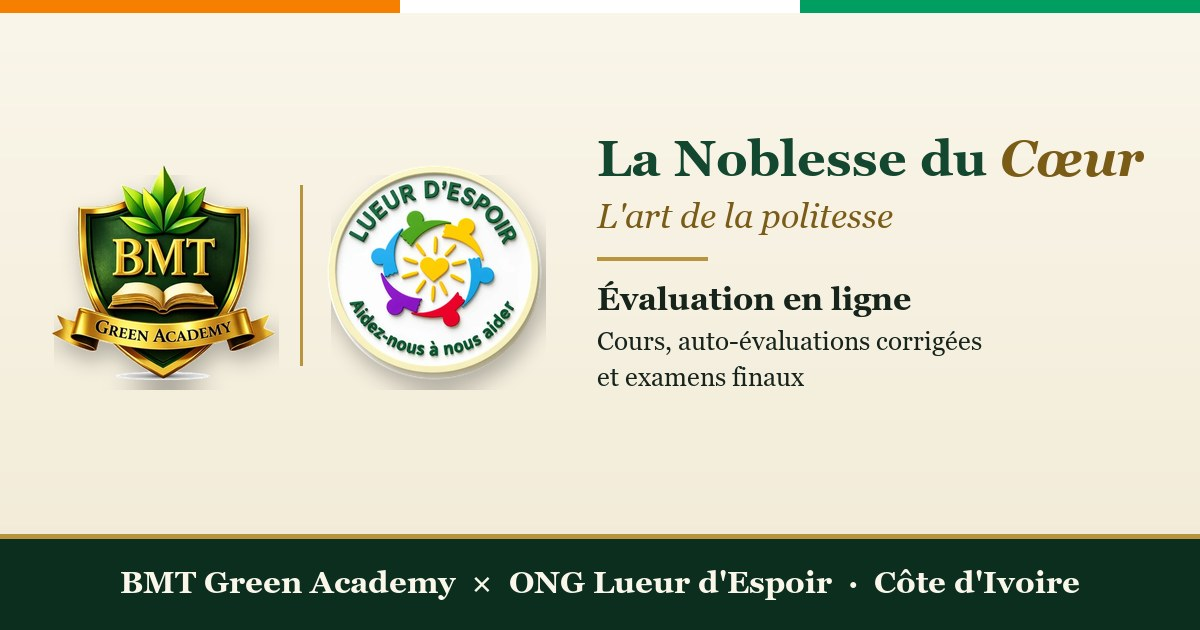
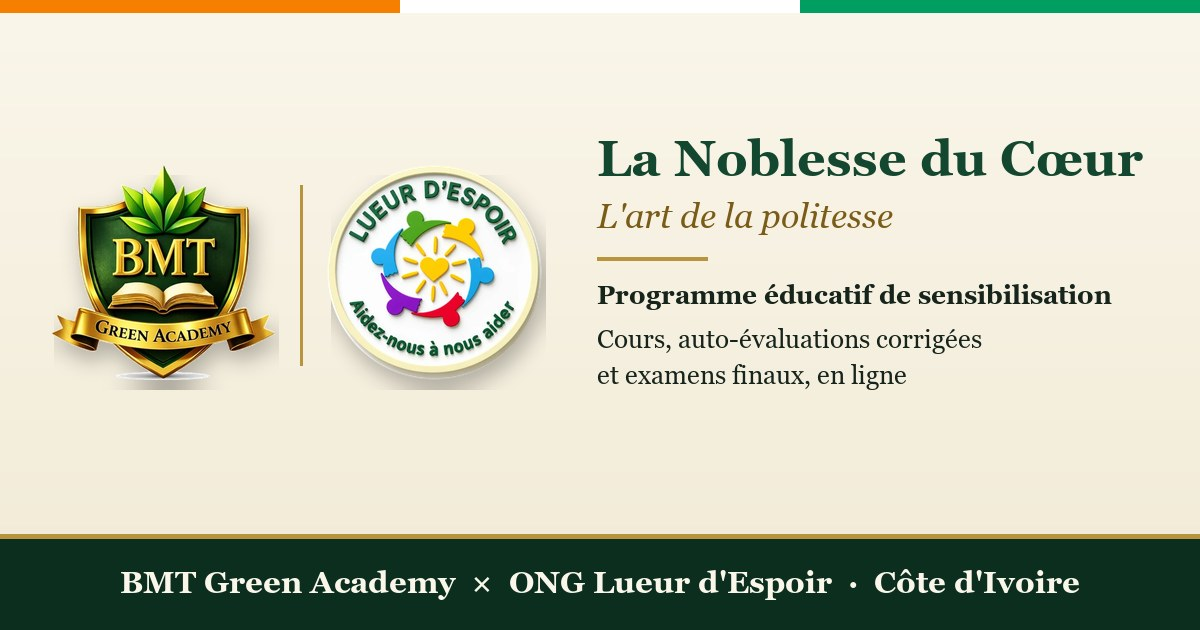
Intitulé « Programme éducatif de sensibilisation » et nom du programme dans une seule couleur
- Accueil, titre de page et aperçu du lien : « La Noblesse du Cœur — Programme éducatif de sensibilisation » ;
  résumé : « L'art de la politesse : cours, auto-évaluations corrigées et examens finaux, en ligne ».
- « La Noblesse du Cœur » s'écrit dans une seule couleur (en-tête, accueil, pied de page, image d'aperçu) ;
  l'or est réservé à « L'art de la politesse ».
- Image d'aperçu régénérée (outils/apercus.py) ; balises régénérées (outils/seo.js).

Changed region(s): [[0.4933, 0.4524, 0.925, 0.6333], [0.8325, 0.2111, 0.9558, 0.3016]]

diff --git a/app.js b/app.js
@@ -41,7 +41,7 @@ function header(mode) {
     return `${saut}<header class="ident"><div class="wrap"><div class="logo"><span class="nom"><b>ONG <em>Lueur</em> d'Espoir</b><span>Aidez-nous à nous aider</span></span></div>
     <img src="img/logo_lueur-160.webp" width="64" height="64" alt="ONG Lueur d'Espoir"></div></header><div class="tricolore"></div>`;
   return `${saut}<header class="ident"><div class="wrap">
-    <a class="logo" href="index.html" aria-label="La Noblesse du Cœur, accueil"><span class="paire-logos"><img src="img/logo_bmt-160.webp" width="65" height="62" alt=""><i class="trait-or"></i><img src="img/logo_lueur-160.webp" width="62" height="62" alt=""></span><span class="nom"><b>La Noblesse du <em>Cœur</em></b><span>BMT Green Academy et ONG Lueur d'Espoir</span></span></a>
+    <a class="logo" href="index.html" aria-label="La Noblesse du Cœur, accueil"><span class="paire-logos"><img src="img/logo_bmt-160.webp" width="65" height="62" alt=""><i class="trait-or"></i><img src="img/logo_lueur-160.webp" width="62" height="62" alt=""></span><span class="nom"><b>La Noblesse du Cœur</b><span>BMT Green Academy et ONG Lueur d'Espoir</span></span></a>
     <nav class="nav" aria-label="Navigation principale">${NAVX.map(lienNav).join("")}<a class="btn" href="${CTA_NAV[0]}">${CTA_NAV[1]}</a></nav>
     <button class="burger" type="button" aria-label="Ouvrir le menu" aria-expanded="false" aria-controls="tiroir"><span></span><span></span></button></div></header>
   <div class="voile"></div>
@@ -62,7 +62,7 @@ const PARTENAIRES = `<section class="bande partenaires" aria-labelledby="deux-or
   </div>
   <p class="devise">Respect, dignité, leadership, paix.</p></div></section>`;
 const FOOT = `<footer><div class="wrap">
-  <div class="a-propos-pied"><div class="ronds"><img src="img/logo_bmt-160.webp" width="167" height="160" alt="BMT Green Academy" loading="lazy"><img src="img/logo_lueur-160.webp" width="160" height="160" alt="ONG Lueur d'Espoir" loading="lazy"></div><b>La Noblesse du <em>Cœur</em></b>Respect, dignité, leadership, paix.<br>Programme d'éducation citoyenne, Côte d'Ivoire.</div>
+  <div class="a-propos-pied"><div class="ronds"><img src="img/logo_bmt-160.webp" width="167" height="160" alt="BMT Green Academy" loading="lazy"><img src="img/logo_lueur-160.webp" width="160" height="160" alt="ONG Lueur d'Espoir" loading="lazy"></div><b>La Noblesse du Cœur</b>Respect, dignité, leadership, paix.<br>Programme d'éducation citoyenne, Côte d'Ivoire.</div>
   <div><h4>Élèves et participants</h4><a href="commencer.html">Commencer : s'inscrire</a><a href="espace.html">Mon espace</a>${LIENS.academie ? `<a href="${LIENS.academie}" target="_blank" rel="noopener">Pôle formation BMT Green Academy</a>` : ""}${LIENS.ong ? `<a href="${LIENS.ong}"${cibleLien(LIENS.ong)}>ONG Lueur d'Espoir</a>` : ""}</div>
   <div><h4>L'équipe</h4><a href="equipe.html">Parcours du programme</a><a href="equipe.html#pdf">Fiches à imprimer</a><a href="liens.html">Tous les liens</a><a href="dashboard.html">Tableau de bord</a></div>
   <p class="partenaire">En partenariat avec l'Association des Arts-Thérapeutes, Coachs et Praticiens Holistiques de Côte d'Ivoire.</p></div></footer>`;
@@ -497,12 +497,12 @@ function brancherInstaller() { document.querySelectorAll(".installer").forEach(b
 
 /* ---------------- accueil public ---------------- */
 function renderAccueil() {
-  document.title = "La Noblesse du Cœur — Évaluation en ligne";
+  document.title = "La Noblesse du Cœur — Programme éducatif de sensibilisation";
   const p = profil(), nom = prenomDe(p);
   app().innerHTML = header() + BANDEAU("basilique", `
-    <h1>La Noblesse du <em>Cœur</em></h1>
+    <h1>La Noblesse du Cœur</h1>
     <p class="sous-titre" style="--k:1">L'art de la politesse</p>
-    <p class="lead" style="--k:2">${p ? `Content de te revoir, ${esc(nom)}. Retrouve ton parcours, tes auto-évaluations, tes examens et tes résultats.` : "<strong>Évaluation en ligne</strong> : inscris-toi, suis les cours de l'Axe 1 et de l'Axe 2 avec leurs auto-évaluations corrigées, puis passe tes examens finaux. Tout se fait sur téléphone, à ton rythme."}</p>
+    <p class="lead" style="--k:2">${p ? `Content de te revoir, ${esc(nom)}. Retrouve ton parcours, tes auto-évaluations, tes examens et tes résultats.` : "<strong>Programme éducatif de sensibilisation</strong> : cours, auto-évaluations corrigées et examens finaux, en ligne. Inscris-toi, suis l'Axe 1 et l'Axe 2 module par module, puis passe tes examens. Tout se fait sur téléphone, à ton rythme."}</p>
     <div class="cta" style="--k:2">${p ? '<a class="btn or" href="espace.html">Entrer dans mon espace</a>' : '<a class="btn or" href="commencer.html">Commencer</a>'}<a class="btn clair" href="#parcours">Comment ça marche</a></div>`) + `
   <main id="contenu" tabindex="-1">${DEMO() ? `<div class="wrap">${DEMO()}</div>` : ""}
     <section class="bande" id="commencer"><div class="wrap"><div class="etape-tete"><div><h2>${p ? "Ton <em>espace</em>" : "Qui <em>es-tu</em> ?"}</h2><p>${p ? "Tu es déjà inscrit(e) sur cet appareil." : "Choisis ton profil : le site te montrera uniquement ce qui te concerne."}</p></div></div>

diff --git a/index.html b/index.html
@@ -1,14 +1,14 @@
 <!doctype html><html lang="fr"><head><meta charset="utf-8"><meta name="viewport" content="width=device-width,initial-scale=1">
 <!-- seo:debut -->
-<title>La Noblesse du Cœur — Évaluation en ligne</title>
-<meta name="description" content="Programme éducatif en Côte d'Ivoire : cours, auto-évaluations corrigées et examens en ligne. Par BMT Green Academy et l'ONG Lueur d'Espoir.">
+<title>La Noblesse du Cœur — Programme éducatif de sensibilisation</title>
+<meta name="description" content="L'art de la politesse : cours, auto-évaluations corrigées et examens finaux, en ligne. Par BMT Green Academy et l'ONG Lueur d'Espoir.">
 <meta name="robots" content="index,follow,max-image-preview:large">
 <link rel="canonical" href="https://xtruck.github.io/noblesse-du-coeur/">
 <meta property="og:type" content="website"><meta property="og:site_name" content="La Noblesse du Cœur"><meta property="og:locale" content="fr_FR">
-<meta property="og:title" content="La Noblesse du Cœur — Évaluation en ligne"><meta property="og:description" content="Programme éducatif en Côte d'Ivoire : cours, auto-évaluations corrigées et examens en ligne. Par BMT Green Academy et l'ONG Lueur d'Espoir."><meta property="og:url" content="https://xtruck.github.io/noblesse-du-coeur/">
+<meta property="og:title" content="La Noblesse du Cœur — Programme éducatif de sensibilisation"><meta property="og:description" content="L'art de la politesse : cours, auto-évaluations corrigées et examens finaux, en ligne. Par BMT Green Academy et l'ONG Lueur d'Espoir."><meta property="og:url" content="https://xtruck.github.io/noblesse-du-coeur/">
 <meta property="og:image" content="https://xtruck.github.io/noblesse-du-coeur/img/apercu-accueil.jpg"><meta property="og:image:type" content="image/jpeg"><meta property="og:image:width" content="1200"><meta property="og:image:height" content="630"><meta property="og:image:alt" content="La Noblesse du Cœur : logos de BMT Green Academy et de l'ONG Lueur d'Espoir">
-<meta name="twitter:card" content="summary_large_image"><meta name="twitter:title" content="La Noblesse du Cœur — Évaluation en ligne"><meta name="twitter:description" content="Programme éducatif en Côte d'Ivoire : cours, auto-évaluations corrigées et examens en ligne. Par BMT Green Academy et l'ONG Lueur d'Espoir."><meta name="twitter:image" content="https://xtruck.github.io/noblesse-du-coeur/img/apercu-accueil.jpg">
-<script type="application/ld+json">{"@context":"https://schema.org","@graph":[{"@type":"WebSite","name":"La Noblesse du Cœur","url":"https://xtruck.github.io/noblesse-du-coeur/","inLanguage":"fr","description":"Programme éducatif en Côte d'Ivoire : cours, auto-évaluations corrigées et examens en ligne. Par BMT Green Academy et l'ONG Lueur d'Espoir."},{"@type":"EducationalOrganization","name":"BMT Green Academy","logo":"https://xtruck.github.io/noblesse-du-coeur/img/logo_bmt-480.webp","url":"https://xtruck.github.io/noblesse-du-coeur/"},{"@type":"NGO","name":"ONG Lueur d'Espoir","slogan":"Aidez-nous à nous aider","logo":"https://xtruck.github.io/noblesse-du-coeur/img/logo_lueur-480.webp","url":"https://xtruck.github.io/noblesse-du-coeur/ong.html","telephone":"+225 01 01 73 68 12"}]}</script>
+<meta name="twitter:card" content="summary_large_image"><meta name="twitter:title" content="La Noblesse du Cœur — Programme éducatif de sensibilisation"><meta name="twitter:description" content="L'art de la politesse : cours, auto-évaluations corrigées et examens finaux, en ligne. Par BMT Green Academy et l'ONG Lueur d'Espoir."><meta name="twitter:image" content="https://xtruck.github.io/noblesse-du-coeur/img/apercu-accueil.jpg">
+<script type="application/ld+json">{"@context":"https://schema.org","@graph":[{"@type":"WebSite","name":"La Noblesse du Cœur","url":"https://xtruck.github.io/noblesse-du-coeur/","inLanguage":"fr","description":"L'art de la politesse : cours, auto-évaluations corrigées et examens finaux, en ligne. Par BMT Green Academy et l'ONG Lueur d'Espoir."},{"@type":"EducationalOrganization","name":"BMT Green Academy","logo":"https://xtruck.github.io/noblesse-du-coeur/img/logo_bmt-480.webp","url":"https://xtruck.github.io/noblesse-du-coeur/"},{"@type":"NGO","name":"ONG Lueur d'Espoir","slogan":"Aidez-nous à nous aider","logo":"https://xtruck.github.io/noblesse-du-coeur/img/logo_lueur-480.webp","url":"https://xtruck.github.io/noblesse-du-coeur/ong.html","telephone":"+225 01 01 73 68 12"}]}</script>
 <!-- seo:fin -->
 <link rel="icon" href="img/icon-duo-192.png" type="image/png"><link rel="manifest" href="manifest.json"><meta name="theme-color" content="#14472f"><link rel="apple-touch-icon" href="img/icon-duo-192.png">
 <link rel="preconnect" href="https://fonts.googleapis.com"><link rel="preconnect" href="https://fonts.gstatic.com" crossorigin>

diff --git a/parcours.html b/parcours.html
@@ -1,12 +1,12 @@
 <!doctype html><html lang="fr"><head><meta charset="utf-8"><meta name="viewport" content="width=device-width,initial-scale=1">
 <!-- seo:debut -->
 <title>Parcours éducatif — La Noblesse du Cœur</title>
-<meta name="description" content="Programme éducatif en Côte d'Ivoire : cours, auto-évaluations corrigées et examens en ligne. Par BMT Green Academy et l'ONG Lueur d'Espoir.">
+<meta name="description" content="L'art de la politesse : cours, auto-évaluations corrigées et examens finaux, en ligne. Par BMT Green Academy et l'ONG Lueur d'Espoir.">
 <meta name="robots" content="noindex,nofollow">
 <meta property="og:type" content="website"><meta property="og:site_name" content="La Noblesse du Cœur"><meta property="og:locale" content="fr_FR">
-<meta property="og:title" content="Parcours éducatif — La Noblesse du Cœur"><meta property="og:description" content="Programme éducatif en Côte d'Ivoire : cours, auto-évaluations corrigées et examens en ligne. Par BMT Green Academy et l'ONG Lueur d'Espoir."><meta property="og:url" content="https://xtruck.github.io/noblesse-du-coeur/parcours.html">
+<meta property="og:title" content="Parcours éducatif — La Noblesse du Cœur"><meta property="og:description" content="L'art de la politesse : cours, auto-évaluations corrigées et examens finaux, en ligne. Par BMT Green Academy et l'ONG Lueur d'Espoir."><meta property="og:url" content="https://xtruck.github.io/noblesse-du-coeur/parcours.html">
 <meta property="og:image" content="https://xtruck.github.io/noblesse-du-coeur/img/apercu-accueil.jpg"><meta property="og:image:type" content="image/jpeg"><meta property="og:image:width" content="1200"><meta property="og:image:height" content="630"><meta property="og:image:alt" content="La Noblesse du Cœur : logos de BMT Green Academy et de l'ONG Lueur d'Espoir">
-<meta name="twitter:card" content="summary_large_image"><meta name="twitter:title" content="Parcours éducatif — La Noblesse du Cœur"><meta name="twitter:description" content="Programme éducatif en Côte d'Ivoire : cours, auto-évaluations corrigées et examens en ligne. Par BMT Green Academy et l'ONG Lueur d'Espoir."><meta name="twitter:image" content="https://xtruck.github.io/noblesse-du-coeur/img/apercu-accueil.jpg">
+<meta name="twitter:card" content="summary_large_image"><meta name="twitter:title" content="Parcours éducatif — La Noblesse du Cœur"><meta name="twitter:description" content="L'art de la politesse : cours, auto-évaluations corrigées et examens finaux, en ligne. Par BMT Green Academy et l'ONG Lueur d'Espoir."><meta name="twitter:image" content="https://xtruck.github.io/noblesse-du-coeur/img/apercu-accueil.jpg">
 <!-- seo:fin -->
 <link rel="icon" href="img/icon-duo-192.png" type="image/png"><link rel="manifest" href="manifest.json"><meta name="theme-color" content="#14472f"><link rel="apple-touch-icon" href="img/icon-duo-192.png">
 <link rel="preconnect" href="https://fonts.googleapis.com"><link rel="preconnect" href="https://fonts.gstatic.com" crossorigin>

diff --git a/examen.html b/examen.html
@@ -1,12 +1,12 @@
 <!doctype html><html lang="fr"><head><meta charset="utf-8"><meta name="viewport" content="width=device-width,initial-scale=1">
 <!-- seo:debut -->
 <title>Examens finaux — La Noblesse du Cœur</title>
-<meta name="description" content="Programme éducatif en Côte d'Ivoire : cours, auto-évaluations corrigées et examens en ligne. Par BMT Green Academy et l'ONG Lueur d'Espoir.">
+<meta name="description" content="L'art de la politesse : cours, auto-évaluations corrigées et examens finaux, en ligne. Par BMT Green Academy et l'ONG Lueur d'Espoir.">
 <meta name="robots" content="noindex,nofollow">
 <meta property="og:type" content="website"><meta property="og:site_name" content="La Noblesse du Cœur"><meta property="og:locale" content="fr_FR">
-<meta property="og:title" content="Examens finaux — La Noblesse du Cœur"><meta property="og:description" content="Programme éducatif en Côte d'Ivoire : cours, auto-évaluations corrigées et examens en ligne. Par BMT Green Academy et l'ONG Lueur d'Espoir."><meta property="og:url" content="https://xtruck.github.io/noblesse-du-coeur/examen.html">
+<meta property="og:title" content="Examens finaux — La Noblesse du Cœur"><meta property="og:description" content="L'art de la politesse : cours, auto-évaluations corrigées et examens finaux, en ligne. Par BMT Green Academy et l'ONG Lueur d'Espoir."><meta property="og:url" content="https://xtruck.github.io/noblesse-du-coeur/examen.html">
 <meta property="og:image" content="https://xtruck.github.io/noblesse-du-coeur/img/apercu-accueil.jpg"><meta property="og:image:type" content="image/jpeg"><meta property="og:image:width" content="1200"><meta property="og:image:height" content="630"><meta property="og:image:alt" content="La Noblesse du Cœur : logos de BMT Green Academy et de l'ONG Lueur d'Espoir">
-<meta name="twitter:card" content="summary_large_image"><meta name="twitter:title" content="Examens finaux — La Noblesse du Cœur"><meta name="twitter:description" content="Programme éducatif en Côte d'Ivoire : cours, auto-évaluations corrigées et examens en ligne. Par BMT Green Academy et l'ONG Lueur d'Espoir."><meta name="twitter:image" content="https://xtruck.github.io/noblesse-du-coeur/img/apercu-accueil.jpg">
+<meta name="twitter:card" content="summary_large_image"><meta name="twitter:title" content="Examens finaux — La Noblesse du Cœur"><meta name="twitter:description" content="L'art de la politesse : cours, auto-évaluations corrigées et examens finaux, en ligne. Par BMT Green Academy et l'ONG Lueur d'Espoir."><meta name="twitter:image" content="https://xtruck.github.io/noblesse-du-coeur/img/apercu-accueil.jpg">
 <!-- seo:fin -->
 <link rel="icon" href="img/icon-duo-192.png" type="image/png"><link rel="manifest" href="manifest.json"><meta name="theme-color" content="#14472f"><link rel="apple-touch-icon" href="img/icon-duo-192.png">
 <link rel="preconnect" href="https://fonts.googleapis.com"><link rel="preconnect" href="https://fonts.gstatic.com" crossorigin>

diff --git a/espace.html b/espace.html
@@ -1,12 +1,12 @@
 <!doctype html><html lang="fr"><head><meta charset="utf-8"><meta name="viewport" content="width=device-width,initial-scale=1">
 <!-- seo:debut -->
 <title>Mon espace — La Noblesse du Cœur</title>
-<meta name="description" content="Programme éducatif en Côte d'Ivoire : cours, auto-évaluations corrigées et examens en ligne. Par BMT Green Academy et l'ONG Lueur d'Espoir.">
+<meta name="description" content="L'art de la politesse : cours, auto-évaluations corrigées et examens finaux, en ligne. Par BMT Green Academy et l'ONG Lueur d'Espoir.">
 <meta name="robots" content="noindex,nofollow">
 <meta property="og:type" content="website"><meta property="og:site_name" content="La Noblesse du Cœur"><meta property="og:locale" content="fr_FR">
-<meta property="og:title" content="Mon espace — La Noblesse du Cœur"><meta property="og:description" content="Programme éducatif en Côte d'Ivoire : cours, auto-évaluations corrigées et examens en ligne. Par BMT Green Academy et l'ONG Lueur d'Espoir."><meta property="og:url" content="https://xtruck.github.io/noblesse-du-coeur/espace.html">
+<meta property="og:title" content="Mon espace — La Noblesse du Cœur"><meta property="og:description" content="L'art de la politesse : cours, auto-évaluations corrigées et examens finaux, en ligne. Par BMT Green Academy et l'ONG Lueur d'Espoir."><meta property="og:url" content="https://xtruck.github.io/noblesse-du-coeur/espace.html">
 <meta property="og:image" content="https://xtruck.github.io/noblesse-du-coeur/img/apercu-accueil.jpg"><meta property="og:image:type" content="image/jpeg"><meta property="og:image:width" content="1200"><meta property="og:image:height" content="630"><meta property="og:image:alt" content="La Noblesse du Cœur : logos de BMT Green Academy et de l'ONG Lueur d'Espoir">
-<meta name="twitter:card" content="summary_large_image"><meta name="twitter:title" content="Mon espace — La Noblesse du Cœur"><meta name="twitter:description" content="Programme éducatif en Côte d'Ivoire : cours, auto-évaluations corrigées et examens en ligne. Par BMT Green Academy et l'ONG Lueur d'Espoir."><meta name="twitter:image" content="https://xtruck.github.io/noblesse-du-coeur/img/apercu-accueil.jpg">
+<meta name="twitter:card" content="summary_large_image"><meta name="twitter:title" content="Mon espace — La Noblesse du Cœur"><meta name="twitter:description" content="L'art de la politesse : cours, auto-évaluations corrigées et examens finaux, en ligne. Par BMT Green Academy et l'ONG Lueur d'Espoir."><meta name="twitter:image" content="https://xtruck.github.io/noblesse-du-coeur/img/apercu-accueil.jpg">
 <!-- seo:fin -->
 <link rel="icon" href="img/icon-duo-192.png" type="image/png"><link rel="manifest" href="manifest.json"><meta name="theme-color" content="#14472f"><link rel="apple-touch-icon" href="img/icon-duo-192.png">
 <link rel="preconnect" href="https://fonts.googleapis.com"><link rel="preconnect" href="https://fonts.gstatic.com" crossorigin>

diff --git a/404.html b/404.html
@@ -1,12 +1,12 @@
 <!doctype html><html lang="fr"><head><meta charset="utf-8"><meta name="viewport" content="width=device-width,initial-scale=1">
 <!-- seo:debut -->
 <title>Page introuvable — La Noblesse du Cœur</title>
-<meta name="description" content="Programme éducatif en Côte d'Ivoire : cours, auto-évaluations corrigées et examens en ligne. Par BMT Green Academy et l'ONG Lueur d'Espoir.">
+<meta name="description" content="L'art de la politesse : cours, auto-évaluations corrigées et examens finaux, en ligne. Par BMT Green Academy et l'ONG Lueur d'Espoir.">
 <meta name="robots" content="noindex,nofollow">
 <meta property="og:type" content="website"><meta property="og:site_name" content="La Noblesse du Cœur"><meta property="og:locale" content="fr_FR">
-<meta property="og:title" content="Page introuvable — La Noblesse du Cœur"><meta property="og:description" content="Programme éducatif en Côte d'Ivoire : cours, auto-évaluations corrigées et examens en ligne. Par BMT Green Academy et l'ONG Lueur d'Espoir."><meta property="og:url" content="https://xtruck.github.io/noblesse-du-coeur/404.html">
+<meta property="og:title" content="Page introuvable — La Noblesse du Cœur"><meta property="og:description" content="L'art de la politesse : cours, auto-évaluations corrigées et examens finaux, en ligne. Par BMT Green Academy et l'ONG Lueur d'Espoir."><meta property="og:url" content="https://xtruck.github.io/noblesse-du-coeur/404.html">
 <meta property="og:image" content="https://xtruck.github.io/noblesse-du-coeur/img/apercu-accueil.jpg"><meta property="og:image:type" content="image/jpeg"><meta property="og:image:width" content="1200"><meta property="og:image:height" content="630"><meta property="og:image:alt" content="La Noblesse du Cœur : logos de BMT Green Academy et de l'ONG Lueur d'Espoir">
-<meta name="twitter:card" content="summary_large_image"><meta name="twitter:title" content="Page introuvable — La Noblesse du Cœur"><meta name="twitter:description" content="Programme éducatif en Côte d'Ivoire : cours, auto-évaluations corrigées et examens en ligne. Par BMT Green Academy et l'ONG Lueur d'Espoir."><meta name="twitter:image" content="https://xtruck.github.io/noblesse-du-coeur/img/apercu-accueil.jpg">
+<meta name="twitter:card" content="summary_large_image"><meta name="twitter:title" content="Page introuvable — La Noblesse du Cœur"><meta name="twitter:description" content="L'art de la politesse : cours, auto-évaluations corrigées et examens finaux, en ligne. Par BMT Green Academy et l'ONG Lueur d'Espoir."><meta name="twitter:image" content="https://xtruck.github.io/noblesse-du-coeur/img/apercu-accueil.jpg">
 <!-- seo:fin -->
 <meta name="robots" content="noindex">
 <!-- GitHub Pages sert cette page à n'importe quelle profondeur d'adresse : on recalcule la racine du site pour que le style et les images se chargent. -->

diff --git a/offline.html b/offline.html
@@ -1,12 +1,12 @@
 <!doctype html><html lang="fr"><head><meta charset="utf-8"><meta name="viewport" content="width=device-width,initial-scale=1">
 <!-- seo:debut -->
 <title>Hors connexion — La Noblesse du Cœur</title>
-<meta name="description" content="Programme éducatif en Côte d'Ivoire : cours, auto-évaluations corrigées et examens en ligne. Par BMT Green Academy et l'ONG Lueur d'Espoir.">
+<meta name="description" content="L'art de la politesse : cours, auto-évaluations corrigées et examens finaux, en ligne. Par BMT Green Academy et l'ONG Lueur d'Espoir.">
 <meta name="robots" content="noindex,nofollow">
 <meta property="og:type" content="website"><meta property="og:site_name" content="La Noblesse du Cœur"><meta property="og:locale" content="fr_FR">
-<meta property="og:title" content="Hors connexion — La Noblesse du Cœur"><meta property="og:description" content="Programme éducatif en Côte d'Ivoire : cours, auto-évaluations corrigées et examens en ligne. Par BMT Green Academy et l'ONG Lueur d'Espoir."><meta property="og:url" content="https://xtruck.github.io/noblesse-du-coeur/offline.html">
+<meta property="og:title" content="Hors connexion — La Noblesse du Cœur"><meta property="og:description" content="L'art de la politesse : cours, auto-évaluations corrigées et examens finaux, en ligne. Par BMT Green Academy et l'ONG Lueur d'Espoir."><meta property="og:url" content="https://xtruck.github.io/noblesse-du-coeur/offline.html">
 <meta property="og:image" content="https://xtruck.github.io/noblesse-du-coeur/img/apercu-accueil.jpg"><meta property="og:image:type" content="image/jpeg"><meta property="og:image:width" content="1200"><meta property="og:image:height" content="630"><meta property="og:image:alt" content="La Noblesse du Cœur : logos de BMT Green Academy et de l'ONG Lueur d'Espoir">
-<meta name="twitter:card" content="summary_large_image"><meta name="twitter:title" content="Hors connexion — La Noblesse du Cœur"><meta name="twitter:description" content="Programme éducatif en Côte d'Ivoire : cours, auto-évaluations corrigées et examens en ligne. Par BMT Green Academy et l'ONG Lueur d'Espoir."><meta name="twitter:image" content="https://xtruck.github.io/noblesse-du-coeur/img/apercu-accueil.jpg">
+<meta name="twitter:card" content="summary_large_image"><meta name="twitter:title" content="Hors connexion — La Noblesse du Cœur"><meta name="twitter:description" content="L'art de la politesse : cours, auto-évaluations corrigées et examens finaux, en ligne. Par BMT Green Academy et l'ONG Lueur d'Espoir."><meta name="twitter:image" content="https://xtruck.github.io/noblesse-du-coeur/img/apercu-accueil.jpg">
 <!-- seo:fin -->
 <meta name="robots" content="noindex">
 <link rel="icon" href="img/icon-duo-192.png" type="image/png"><meta name="theme-color" content="#14472f">

diff --git a/outils/seo.js b/outils/seo.js
@@ -10,11 +10,11 @@ const DATE = new Date().toISOString().slice(0, 10);
 
 const ACCUEIL = { img: 'img/apercu-accueil.jpg', alt: 'La Noblesse du Cœur : logos de BMT Green Academy et de l\'ONG Lueur d\'Espoir' };
 const ONG = { img: 'img/apercu-ong.jpg', alt: 'ONG Lueur d\'Espoir : logo et devise' };
-const D_ACCUEIL = 'Programme éducatif en Côte d\'Ivoire : cours, auto-évaluations corrigées et examens en ligne. Par BMT Green Academy et l\'ONG Lueur d\'Espoir.';
+const D_ACCUEIL = 'L\'art de la politesse : cours, auto-évaluations corrigées et examens finaux, en ligne. Par BMT Green Academy et l\'ONG Lueur d\'Espoir.';
 
 /* indexe = la page peut apparaître dans Google ; sinon « noindex » (parcours de l'élève, espace équipe, formulaires) */
 const PAGES = {
-  'index.html': { titre: NOM + ' — Évaluation en ligne', desc: D_ACCUEIL, ...ACCUEIL, indexe: true, accueil: true },
+  'index.html': { titre: NOM + ' — Programme éducatif de sensibilisation', desc: D_ACCUEIL, ...ACCUEIL, indexe: true, accueil: true },
   'ong.html': { titre: 'ONG Lueur d\'Espoir — Redonner espoir, révéler les potentiels', desc: 'ONG Lueur d\'Espoir : dignité humaine, inclusion sociale, paix et vivre-ensemble, leadership positif et engagement citoyen. Contact : +225 01 01 73 68 12.', ...ONG, indexe: true },
   'commencer.html': { titre: 'S\'inscrire — ' + NOM, desc: 'Choisis ton profil (élève ou participant) et inscris-toi en une minute au programme La Noblesse du Cœur.', ...ACCUEIL },
   'espace.html': { titre: 'Mon espace — ' + NOM, desc: D_ACCUEIL, ...ACCUEIL },

diff --git a/certificat.html b/certificat.html
@@ -10,6 +10,7 @@
 <!-- seo:fin -->
 
 
+
 <link rel="icon" href="img/icon-duo-192.png" type="image/png"><link rel="manifest" href="manifest.json"><meta name="theme-color" content="#14472f"><link rel="apple-touch-icon" href="img/icon-duo-192.png">
 <link rel="preconnect" href="https://fonts.googleapis.com"><link rel="preconnect" href="https://fonts.gstatic.com" crossorigin>
 <link href="https://fonts.googleapis.com/css2?family=Fraunces:ital,opsz,wght@0,9..144,300..600;1,9..144,300..600&family=Manrope:wght@400..800&display=swap" rel="stylesheet">

diff --git a/dashboard.html b/dashboard.html
@@ -10,6 +10,7 @@
 <!-- seo:fin -->
 
 
+
 <link rel="icon" href="img/icon-duo-192.png" type="image/png"><link rel="manifest" href="manifest.json"><meta name="theme-color" content="#14472f"><link rel="apple-touch-icon" href="img/icon-duo-192.png">
 <link rel="preconnect" href="https://fonts.googleapis.com"><link rel="preconnect" href="https://fonts.gstatic.com" crossorigin>
 <link href="https://fonts.googleapis.com/css2?family=Fraunces:ital,opsz,wght@0,9..144,300..600;1,9..144,300..600&family=Manrope:wght@400..800&display=swap" rel="stylesheet">

diff --git a/form.html b/form.html
@@ -10,6 +10,7 @@
 <!-- seo:fin -->
 
 
+
 <link rel="icon" href="img/icon-duo-192.png" type="image/png"><link rel="manifest" href="manifest.json"><meta name="theme-color" content="#14472f"><link rel="apple-touch-icon" href="img/icon-duo-192.png">
 <link rel="preconnect" href="https://fonts.googleapis.com"><link rel="preconnect" href="https://fonts.gstatic.com" crossorigin>
 <link href="https://fonts.googleapis.com/css2?family=Fraunces:ital,opsz,wght@0,9..144,300..600;1,9..144,300..600&family=Manrope:wght@400..800&display=swap" rel="stylesheet">

diff --git a/liens.html b/liens.html
@@ -10,6 +10,7 @@
 <!-- seo:fin -->
 
 
+
 <link rel="icon" href="img/icon-duo-192.png" type="image/png"><link rel="manifest" href="manifest.json"><meta name="theme-color" content="#14472f"><link rel="apple-touch-icon" href="img/icon-duo-192.png">
 <link rel="preconnect" href="https://fonts.googleapis.com"><link rel="preconnect" href="https://fonts.gstatic.com" crossorigin>
 <link href="https://fonts.googleapis.com/css2?family=Fraunces:ital,opsz,wght@0,9..144,300..600;1,9..144,300..600&family=Manrope:wght@400..800&display=swap" rel="stylesheet">
